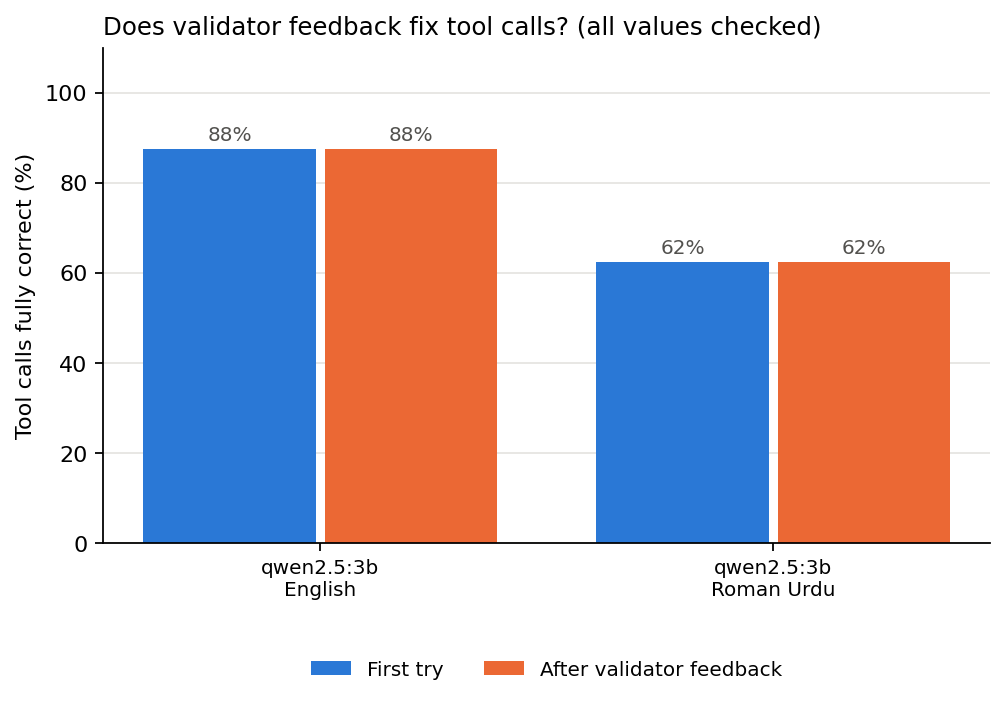
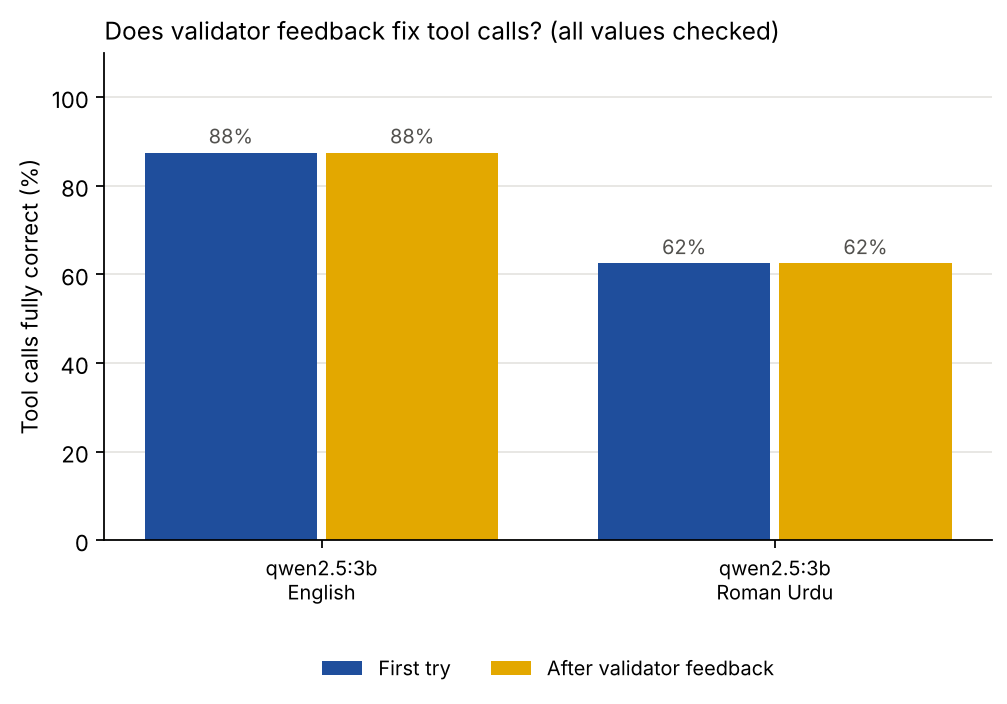
Use the house chart colours

diff --git a/tool-call-self-correction/summarise.py b/tool-call-self-correction/summarise.py
@@ -57,8 +57,8 @@ def plot(table: List[Dict[str, Any]], path: Path) -> None:
     x = range(len(table))
     w = 0.38
     fig, ax = plt.subplots(figsize=(2.6 + 1.9 * len(table), 4.6))
-    b1 = ax.bar([i - w / 2 - 0.01 for i in x], first, w, color="#2a78d6", label="First try")
-    b2 = ax.bar([i + w / 2 + 0.01 for i in x], after, w, color="#eb6834", label="After validator feedback")
+    b1 = ax.bar([i - w / 2 - 0.01 for i in x], first, w, color="#1F4E9C", label="First try")
+    b2 = ax.bar([i + w / 2 + 0.01 for i in x], after, w, color="#E3A800", label="After validator feedback")
     for bars in (b1, b2):
         ax.bar_label(bars, fmt="%.0f%%", padding=2, fontsize=9, color="#52514e")
     ax.set_xticks(list(x))
